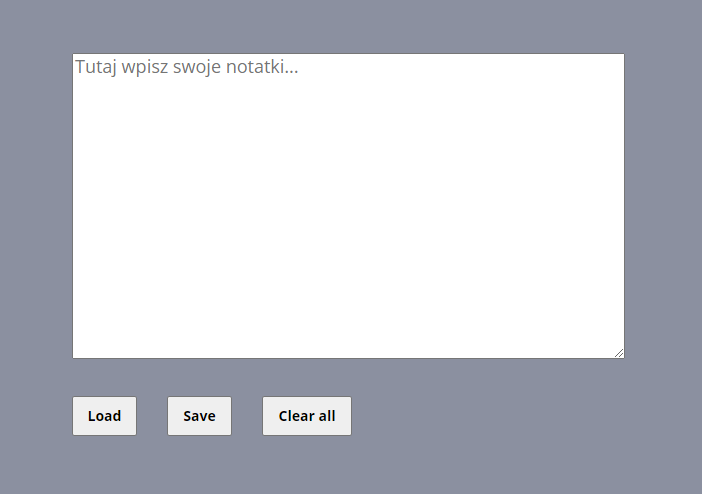
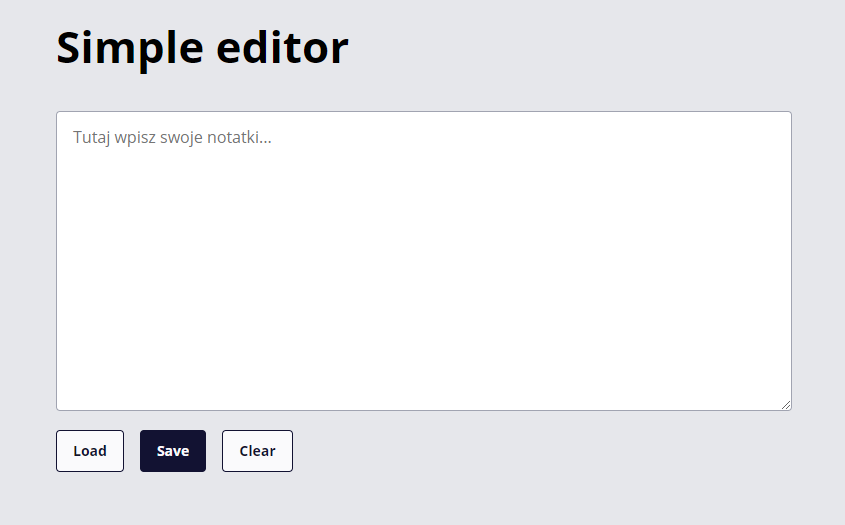
Made visual changes

diff --git a/src/scss/main.scss b/src/scss/main.scss
@@ -4,6 +4,14 @@
 @import "modules/hello.scss";
 @import url('https://fonts.googleapis.com/css2?family=Open+Sans:wght@400;700&display=swap');
 
+html {
+  box-sizing: border-box;
+}
+
+*, *::before, *::after {
+  box-sizing: inherit;
+}
+
 body {
   background: $wtf;
   display: flex;
@@ -11,54 +19,54 @@ body {
   justify-content: center;
   min-height: 100vh;
   font-family: 'Open Sans', sans-serif;
-  font-style: normal;
-  font-weight: normal;
-  font-size: 18px;
-  line-height: 24px;
+  padding: 16px;
 }
 
-.textarea {
-  position: absolute;
-  width: 547px;
-  height: 300px;
-  left: 448px;
-  top: 239px;
-  ::placeholder {
-    left: 16px;
-    right: 16px;
-    top: 16px;
-    bottom: 16px;
+.main {
+  width: 100%;
+  max-width: 736px;
+  &__header {
+    font-size: 44px;
+    margin: 0 0 40px;
+  }
+}
 
-    color: #A1A4B1;
+.form {
+  &__textarea {
+    width: 100%;
+    min-height: 300px;
+    padding: 16px;
+    border: 1px solid #A1A4B1;
+    border-radius: 4px;
+  }
+  &__buttons {
+    margin: 16px 0 0 0;
+    display: flex;
+    justify-content: flex-start;
   }
 }
 
 .button {
-  display: flex;
-  flex-direction: column;
-  align-items: center;
-  padding: 10px;
-
-  position: absolute;
-  width: 65px;
-  height: 40px;
-  left: 448px;
-  top: 582px;
-
   font-weight: 600;
   font-size: 14px;
   line-height: 16px;
-  &__save {
-    left: 543px;
+  color: #121232;
+  background-color: #FAFAFC;
+  border: 1px solid #121232;
+  border-radius: 4px;
+  padding: 12px 16px;  
+  &--save {
+    color: #FAFAFC;
+    background-color: #121232;
+    border: 1px solid #121232;
+    margin-left: 16px;
   }
-  &__clear{
-    left: 638px;
-    width: 90px;
+  &--clear{
+    margin-left: 16px;
   }
 }
 
-.info {
-  position: absolute;
+.form__info {
   height: 40px;
   left: 448px;
   top: 542px;

diff --git a/src/js/index.js b/src/js/index.js
@@ -6,21 +6,20 @@ import '../scss/main.scss';
 
 /* place your code below */
 
-console.log('Welcome to simple editor!')
-
-
 const notesInput = document.querySelector('.text--js');
 const loadButton = document.querySelector('.load--js');
 const saveButton = document.querySelector('.save--js');
 const clearButton = document.querySelector('.clear--js');
 const infoOutput = document.querySelector('.info--js');
 
-saveButton.addEventListener("click", () => {
+saveButton.addEventListener("click", (e) => {
+    e.preventDefault();
     localStorage.setItem('notes', notesInput.value);
     infoOutput.innerHTML = "Zapisano notatkę!";
 });
 
-loadButton.addEventListener("click", () => {
+loadButton.addEventListener("click", (e) => {
+    e.preventDefault();
     const notes = localStorage.getItem('notes');
     document.querySelector('.text--js').innerHTML = notes;
     if(notes) {
@@ -31,7 +30,8 @@ loadButton.addEventListener("click", () => {
     }
 });
 
-clearButton.addEventListener("click", () => {
+clearButton.addEventListener("click", (e) => {
+    e.preventDefault();
     localStorage.removeItem('notes');
     infoOutput.innerHTML = "Usunięto zapisaną notatkę!";
 });

diff --git a/src/pages/index.html b/src/pages/index.html
@@ -17,11 +17,16 @@
   </head>
   <body>
     <main class="main">
-      <textarea class="textarea text--js" placeholder="Tutaj wpisz swoje notatki..."></textarea>
-      <p class="info info--js"></p>
-      <button class="button button__load load--js">Load</button>
-      <button class="button button__save save--js">Save</button>
-      <button class="button button__clear clear--js">Clear all</button>
+      <h1 class="main__header">Simple editor</h1>
+      <form class="form">
+        <textarea aria-label="Enter notes" class="form__textarea text--js" placeholder="Tutaj wpisz swoje notatki..."></textarea>
+        <div class="form__buttons">
+          <button class="button button--load load--js">Load</button>
+          <button class="button button--save save--js">Save</button>
+          <button class="button button--clear clear--js">Clear</button>
+        </div>
+        <p class="form__info info--js"></p>
+      </form>
     </main>
   </body>
 </html>

diff --git a/src/scss/_variables.scss b/src/scss/_variables.scss
@@ -1,1 +1,1 @@
-$wtf: #8B90A0;
+$wtf: #E6E7EB;
